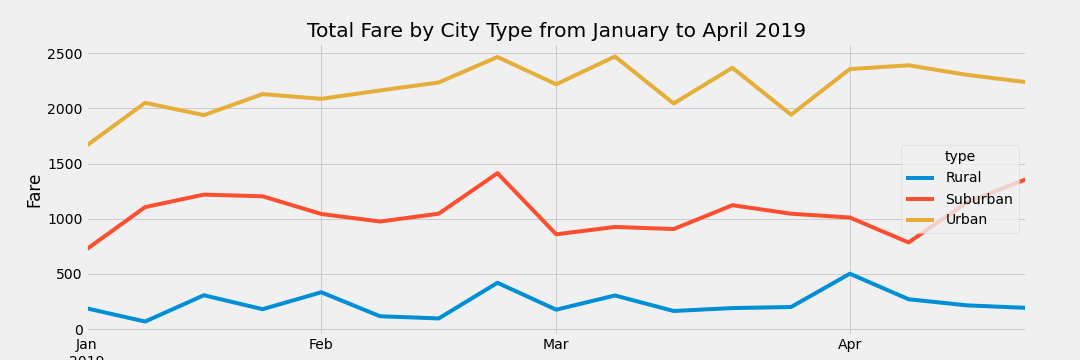
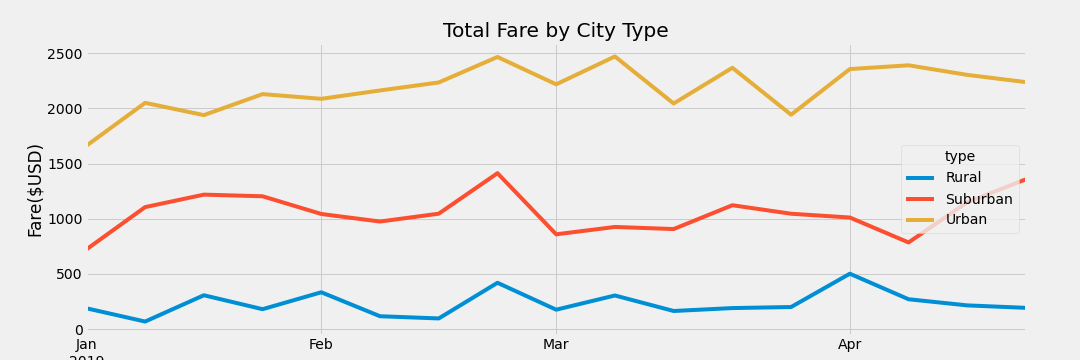
Fixed some formatting

Changed region(s): [[0.275, 0.0611, 0.7639, 0.1222], [0.0, 0.4583, 0.0611, 0.6417], [0.0306, 0.3972, 0.0611, 0.4278]]

diff --git a/README.md b/README.md
@@ -1,6 +1,7 @@
 # PyBer_Analysis
---- 
+ 
 ## Overview of the analysis
+> The purpose of this analysis is to create a summary DataFrame of the ride-sharing data by city type, and create a multiple-line graph that shows the total weekly fares for each city type. 
 
 ## Results
 
